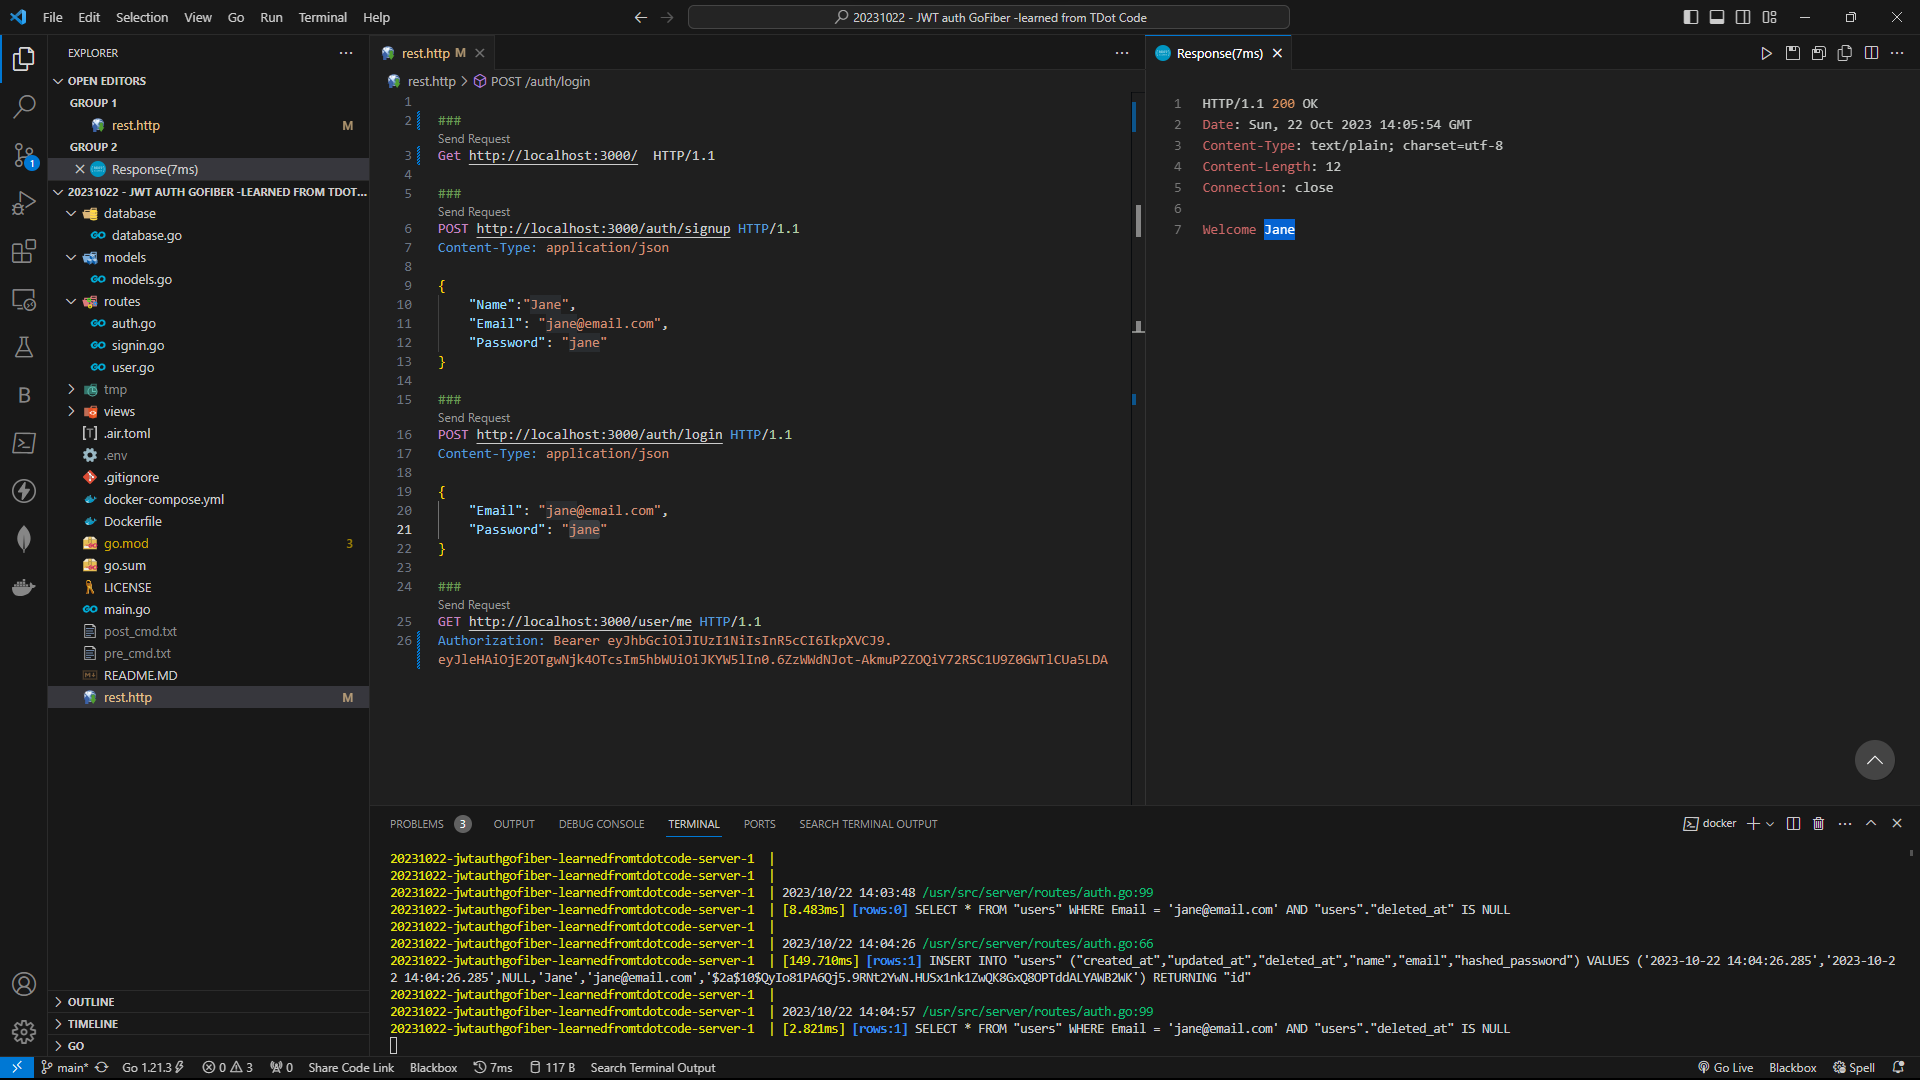
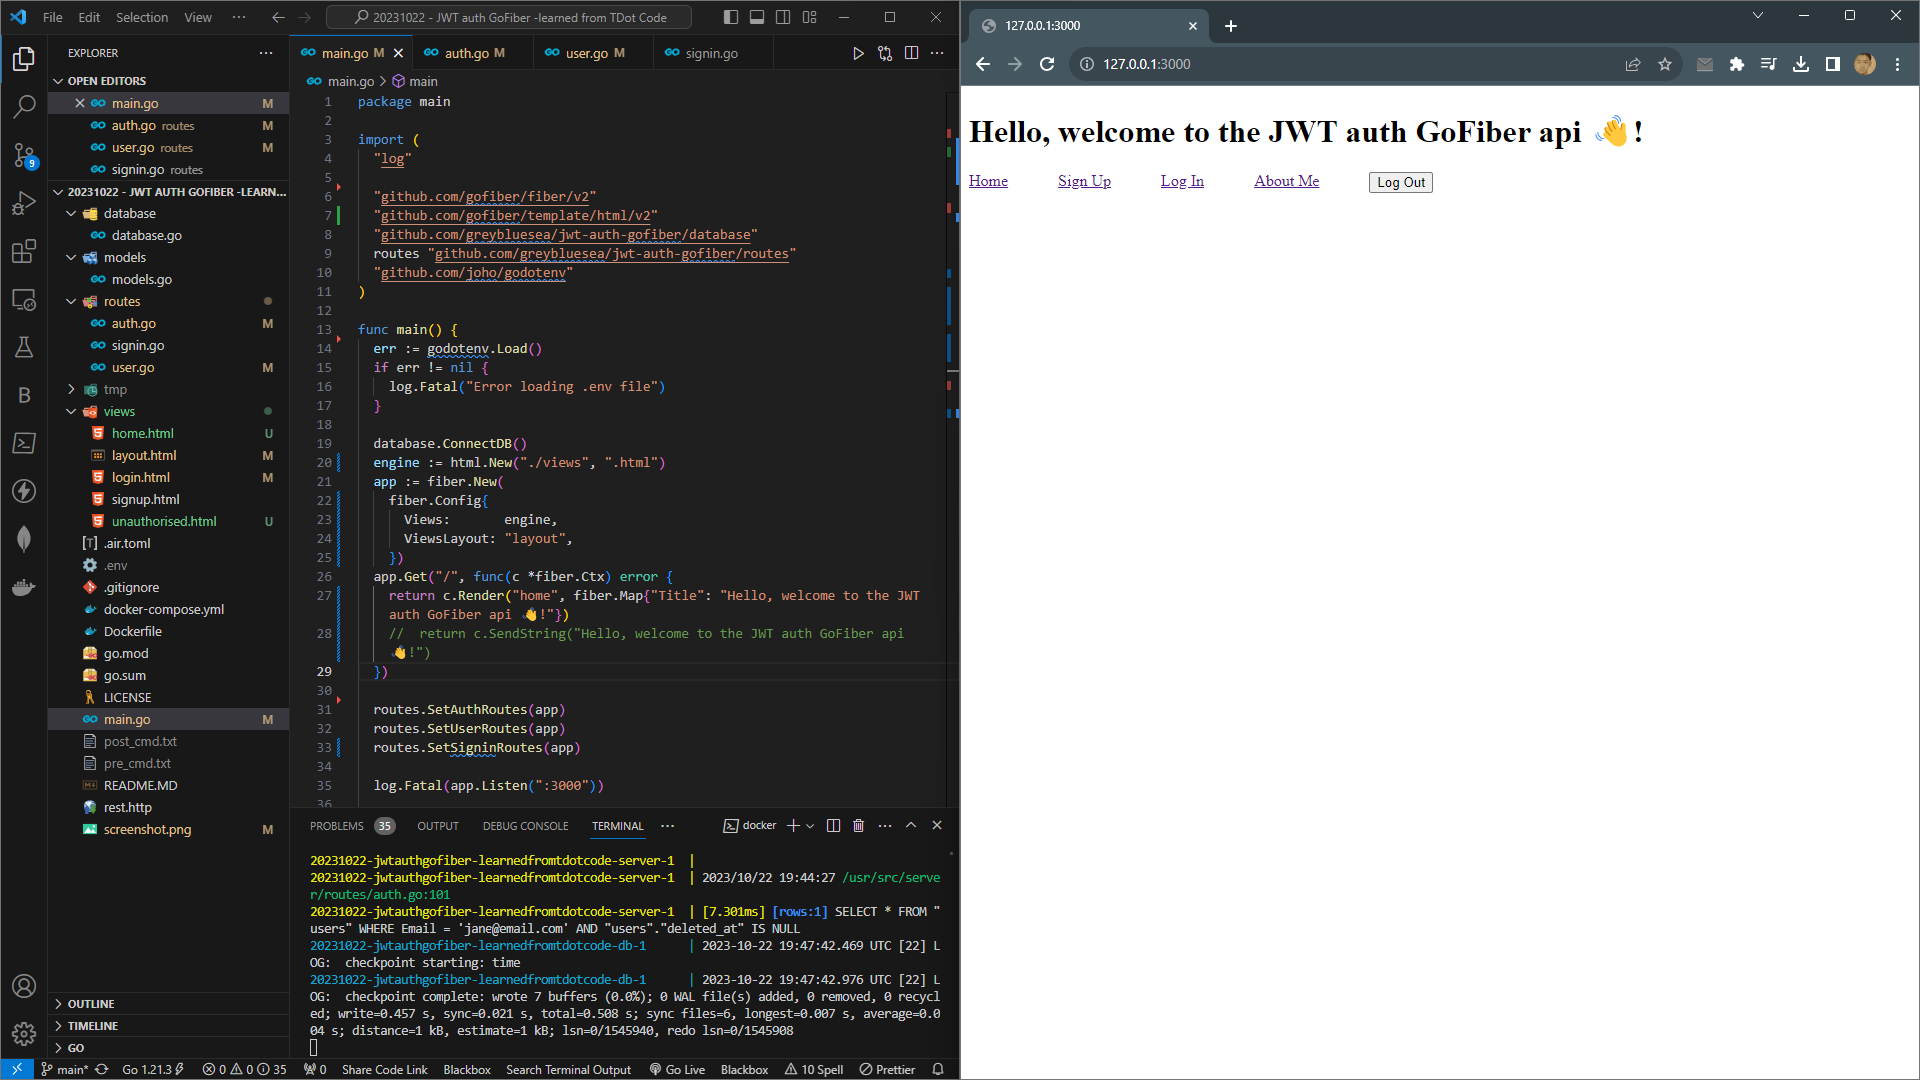
token working, changed into MVC

diff --git a/views/layout.html b/views/layout.html
@@ -1,8 +1,12 @@
 <!DOCTYPE html>
 
 <body>
+
   <h1>{{.Title}}</h1>
-    <div class="wrapper">
+  <form action="/auth/logout"  method="get">
+    <header style="display: flex; gap: 50px; margin-bottom: 30px;">
+      
+
       <a href="/">
         <span>Home</span>
       </a>
@@ -13,10 +17,10 @@
         <span>Log In</span>
       </a>
       <a href="/user/me">
-        <span>Me</span>
+        <span>About Me</span>
       </a>
-      
-    </div>
+      <button type="submit">Log Out</button>
+    </header> </form>
     {{embed}}
 </body> 
 </html>

diff --git a/views/login.html b/views/login.html
@@ -1,7 +1,6 @@
 <hmtl>
   <body>
     <main>
-      <h1>{{.Title}}</h1>
       <form method="post" action="/auth/login">
         <label for="email">
           <span>Email</span>

diff --git a/routes/auth.go b/routes/auth.go
@@ -39,14 +39,14 @@ func SetAuthRoutes(app *fiber.App) {
 	groupAuth.Post("/signup", func(c *fiber.Ctx) error {
 		signup := new(models.SignupRequest)
 
-		/* signup.Email = c.FormValue("Email")
+		signup.Email = c.FormValue("Email")
 		signup.Name = c.FormValue("Name")
-		signup.Password = c.FormValue("Password") */
+		signup.Password = c.FormValue("Password")
 
-		if err := c.BodyParser(&signup); err != nil {
+		/* if err := c.BodyParser(&signup); err != nil {
 			return err
 		}
-
+		*/
 		if signup.Name == "" || signup.Email == "" || signup.Password == "" {
 			return fiber.NewError(fiber.StatusBadRequest, "invalid sign-up credentials")
 		}
@@ -78,7 +78,9 @@ func SetAuthRoutes(app *fiber.App) {
 			Value: token,
 		})
 
-		return c.Status(fiber.StatusOK).JSON(fiber.Map{ /* "status": "success", "message": "Sign-up success", */ "token": token})
+		return c.Status(fiber.StatusFound).Redirect("../user/me")
+
+		//	return c.Status(fiber.StatusOK).JSON(fiber.Map{ /* "status": "success", "message": "Sign-up success", */ "token": token})
 	})
 
 	groupAuth.Post("/login", func(c *fiber.Ctx) error {
@@ -115,7 +117,19 @@ func SetAuthRoutes(app *fiber.App) {
 			Value: token,
 		})
 
-		return c.Status(fiber.StatusOK).JSON(fiber.Map{ /* "status": "success", "message": "Log-in success", */ "token": token})
+		return c.Status(fiber.StatusFound).Redirect("../user/me")
+
+		//	return c.Status(fiber.StatusOK).JSON(fiber.Map{ /* "status": "success", "message": "Log-in success", */ "token": token})
+	})
+
+	groupAuth.Get("/logout", func(c *fiber.Ctx) error {
+
+		c.Cookie(&fiber.Cookie{
+			Name:    "jwt",
+			Value:   "",
+			Expires: time.Unix(0, 0), // Set the expiration time to the Unix epoch
+		})
+		return c.Status(fiber.StatusFound).Redirect("../user/me")
 	})
 
 }
@@ -125,7 +139,7 @@ func createJWTTokenSTr(user *models.User) (string, error) {
 	claims := jwt.MapClaims{
 		"name": user.Name,
 		//"admin": true,
-		"exp": time.Now().Add(time.Hour * 24).Unix(),
+		"exp": time.Now().Add(time.Minute * 5).Unix(),
 	}
 
 	// Create a new JWT token with the HS256 signing method

diff --git a/main.go b/main.go
@@ -3,40 +3,34 @@ package main
 import (
 	"log"
 
-	//"github.com/gofiber/template/html/v2"
-
-	/* 	jwtware "github.com/gofiber/contrib/jwt" */
 	"github.com/gofiber/fiber/v2"
+	"github.com/gofiber/template/html/v2"
 	"github.com/greybluesea/jwt-auth-gofiber/database"
 	routes "github.com/greybluesea/jwt-auth-gofiber/routes"
 	"github.com/joho/godotenv"
 )
 
 func main() {
-
 	err := godotenv.Load()
 	if err != nil {
 		log.Fatal("Error loading .env file")
 	}
 
 	database.ConnectDB()
-	//	engine := html.New("./views", ".html")
+	engine := html.New("./views", ".html")
 	app := fiber.New(
-	/* 	fiber.Config{
-		Views:       engine,
-		ViewsLayout: "layout",
-	} */)
+		fiber.Config{
+			Views:       engine,
+			ViewsLayout: "layout",
+		})
 	app.Get("/", func(c *fiber.Ctx) error {
-		return c.SendString("Hello, welcome to the JWT auth GoFiber api 👋!")
+		return c.Render("home", fiber.Map{"Title": "Hello, welcome to the JWT auth GoFiber api 👋!"})
+		//	return c.SendString("Hello, welcome to the JWT auth GoFiber api 👋!")
 	})
-
-	/* 	app.Use(jwtware.New(jwtware.Config{
-		SigningKey: jwtware.SigningKey{Key: []byte(os.Getenv("SECRET"))},
-	})) */
 
 	routes.SetAuthRoutes(app)
 	routes.SetUserRoutes(app)
-	//	routes.SetSigninRoutes(app)
+	routes.SetSigninRoutes(app)
 
 	log.Fatal(app.Listen(":3000"))
 

diff --git a/routes/user.go b/routes/user.go
@@ -1,6 +1,7 @@
 package routes
 
 import (
+	"fmt"
 	"os"
 
 	jwtware "github.com/gofiber/contrib/jwt"
@@ -13,7 +14,11 @@ func SetUserRoutes(app *fiber.App) {
 	userRoutes := app.Group("/user")
 
 	userRoutes.Use(jwtware.New(jwtware.Config{
-		SigningKey: jwtware.SigningKey{Key: []byte(os.Getenv("SECRET"))},
+		SigningKey:  jwtware.SigningKey{Key: []byte(os.Getenv("SECRET"))},
+		TokenLookup: "cookie:jwt",
+		ErrorHandler: func(c *fiber.Ctx, err error) error {
+			return c.Render("unauthorised", fiber.Map{"Title": "Unauthorised, please sign in"}) // Send unauthorized status code and the error
+		},
 	}))
 	/* userRoutes.Use(jwtware.New(jwtware.Config{
 		SigningKey: jwtware.SigningKey{
@@ -29,7 +34,9 @@ func restricted(c *fiber.Ctx) error {
 	user := c.Locals("user").(*jwt.Token)
 	claims := user.Claims.(jwt.MapClaims)
 	name := claims["name"].(string)
-	return c.SendString("Welcome " + name)
+
+	return c.Render("home", fiber.Map{"Title": fmt.Sprintln("Welcome ", name)})
+	//	return c.SendString("Welcome " + name)
 
 	//return c.SendString("Hello, welcome to the JWT auth GoFiber server")
 
